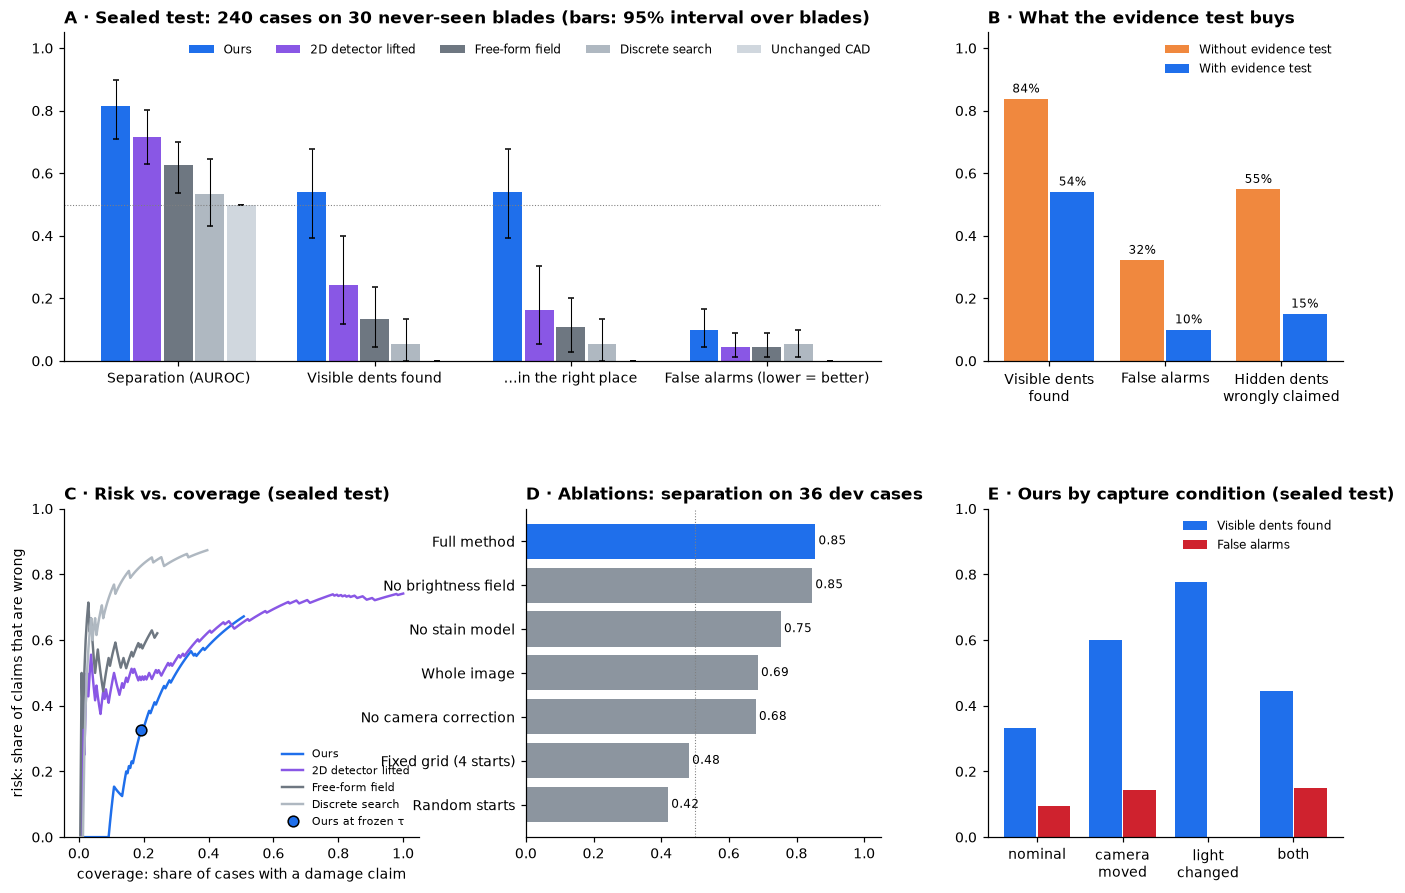
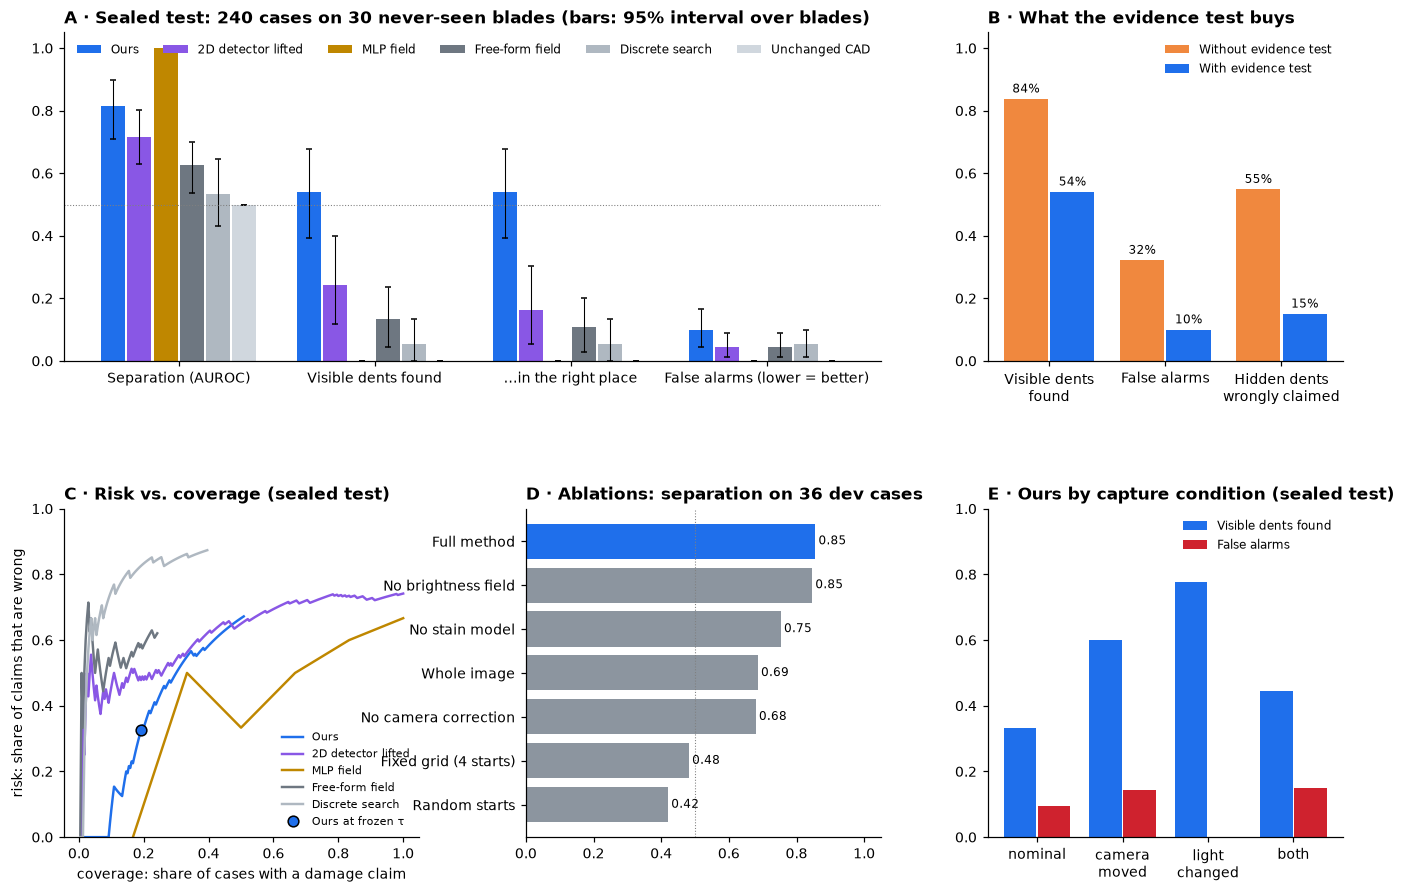
Auto-update results (interim)

diff --git a/results.html b/results.html
@@ -6,7 +6,7 @@
 <link rel="stylesheet" href="styles.css">
 <style>main.res{max-width:1100px;margin:0 auto;padding:32px 16px 64px;display:grid;gap:18px} main.res small{color:var(--muted)}</style>
 </head><body><main class="res">
-<span class="eyebrow">BladeDelta results · 09 Oct 2026, 10:35 UTC</span>
+<span class="eyebrow">BladeDelta results · 09 Oct 2026, 12:09 UTC</span>
 <h1>Sealed-test results <span class="chip partial">updating automatically</span></h1>
 <p>This page is rebuilt automatically from the experiment outputs. The test set is 240 cases on 30 blade shapes never used
 for development; the method and its threshold were locked before any test image existed. Brackets are 95% intervals,
@@ -82,7 +82,7 @@ v1.1 is best on separation, location, false alarms and hidden-dent abstention. T
 photo's outline and the mesh outline disagree (red: only in the photo; blue: only in the mesh). Left: your blade 3. Right: a Rotor37 blade.
 The disagreements are small, but on your blades they are enough to pull the camera check off by about 0.3&deg;.</figcaption></figure>
 <h2>All methods on the sealed test</h2>
-<div class="tablewrap"><table><thead><tr><th>Method</th><th>Separation (AUROC)</th><th>Visible dents found</th><th>…in the right place</th><th>False alarms</th><th>Hidden dents: abstains</th></tr></thead><tbody><tr><td><b>Ours (evidence-bounded)</b></td><td>0.82 <small>[0.71–0.90]</small></td><td>54% <small>[39–68]</small></td><td>54% <small>[39–68]</small></td><td>10% <small>[4–17]</small></td><td>85% <small>[77–91]</small></td></tr><tr><td><b>Ours without the evidence test</b></td><td>0.82 <small>[0.71–0.90]</small></td><td>84% <small>[68–95]</small></td><td>70% <small>[56–84]</small></td><td>32% <small>[21–43]</small></td><td>45% <small>[36–54]</small></td></tr><tr><td><b>2D detector lifted to 3D</b></td><td>0.71 <small>[0.63–0.80]</small></td><td>24% <small>[12–40]</small></td><td>16% <small>[5–30]</small></td><td>4% <small>[1–9]</small></td><td>96% <small>[93–99]</small></td></tr><tr><td><b>Free-form field (per vertex)</b></td><td>0.63 <small>[0.54–0.70]</small></td><td>14% <small>[4–24]</small></td><td>11% <small>[3–20]</small></td><td>4% <small>[1–9]</small></td><td>99% <small>[97–100]</small></td></tr><tr><td><b>Discrete search (earlier method)</b></td><td>0.53 <small>[0.43–0.65]</small></td><td>5% <small>[0–13]</small></td><td>5% <small>[0–13]</small></td><td>6% <small>[1–10]</small></td><td>98% <small>[95–100]</small></td></tr><tr><td><b>Unchanged CAD (never reports)</b></td><td>0.50 <small>[0.50–0.50]</small></td><td>0% <small>[0–0]</small></td><td>0% <small>[0–0]</small></td><td>0% <small>[0–0]</small></td><td>100% <small>[100–100]</small></td></tr></tbody></table></div>
+<div class="tablewrap"><table><thead><tr><th>Method</th><th>Separation (AUROC)</th><th>Visible dents found</th><th>…in the right place</th><th>False alarms</th><th>Hidden dents: abstains</th></tr></thead><tbody><tr><td><b>Ours (evidence-bounded)</b></td><td>0.82 <small>[0.71–0.90]</small></td><td>54% <small>[39–68]</small></td><td>54% <small>[39–68]</small></td><td>10% <small>[4–17]</small></td><td>85% <small>[77–91]</small></td></tr><tr><td><b>Ours without the evidence test</b></td><td>0.82 <small>[0.71–0.90]</small></td><td>84% <small>[68–95]</small></td><td>70% <small>[56–84]</small></td><td>32% <small>[21–43]</small></td><td>45% <small>[36–54]</small></td></tr><tr><td><b>2D detector lifted to 3D</b></td><td>0.71 <small>[0.63–0.80]</small></td><td>24% <small>[12–40]</small></td><td>16% <small>[5–30]</small></td><td>4% <small>[1–9]</small></td><td>96% <small>[93–99]</small></td></tr><tr><td><b>MLP deformation field (CADSplat-style)</b></td><td>1.00 <small>[1.00–1.00]</small></td><td>0% <small>[0–0]</small></td><td>0% <small>[0–0]</small></td><td>0% <small>[0–0]</small></td><td>100% <small>[100–100]</small></td></tr><tr><td><b>Free-form field (per vertex)</b></td><td>0.63 <small>[0.54–0.70]</small></td><td>14% <small>[4–24]</small></td><td>11% <small>[3–20]</small></td><td>4% <small>[1–9]</small></td><td>99% <small>[97–100]</small></td></tr><tr><td><b>Discrete search (earlier method)</b></td><td>0.53 <small>[0.43–0.65]</small></td><td>5% <small>[0–13]</small></td><td>5% <small>[0–13]</small></td><td>6% <small>[1–10]</small></td><td>98% <small>[95–100]</small></td></tr><tr><td><b>Unchanged CAD (never reports)</b></td><td>0.50 <small>[0.50–0.50]</small></td><td>0% <small>[0–0]</small></td><td>0% <small>[0–0]</small></td><td>0% <small>[0–0]</small></td><td>100% <small>[100–100]</small></td></tr></tbody></table></div>
 <h3>Ours, by capture condition</h3><div class="tablewrap"><table><thead><tr><th>Capture</th><th>Visible dents found</th><th>False alarms</th></tr></thead><tbody><tr><td>nominal</td><td>33%</td><td>10%</td></tr><tr><td>camera</td><td>60%</td><td>14%</td></tr><tr><td>light</td><td>78%</td><td>0%</td></tr><tr><td>both</td><td>44%</td><td>15%</td></tr></tbody></table></div>
 <figure><img src="img/results/cad6_blades.png" alt="Six CAD blades"></figure>
 <h2>New blades: your six real blade CAD models (456 of 456 cases so far)</h2>

diff --git a/index.html b/index.html
@@ -58,7 +58,7 @@
       <span class="eyebrow">Latest updates · 7 October 2026, afternoon</span>
       <h2 id="h-latest">Latest results, in pictures</h2>
       <p><b>Final sealed-test numbers and every method side by side: <a href="results.html">live results page</a></b> (rebuilt automatically as experiments finish).</p>
-      <!--AUTO-STATUS-START--><div class="note"><strong>Automatic status · 09 Oct 2026, 10:09 UTC</strong><p>7 of 13 phases done. Sealed test: separation 0.82, 54% of visible dents found, 10% false alarms. <a href="results.html">Full results and charts →</a></p></div><!--AUTO-STATUS-END-->
+      <!--AUTO-STATUS-START--><div class="note"><strong>Automatic status · 09 Oct 2026, 12:09 UTC</strong><p>7 of 13 phases done. Sealed test: separation 0.82, 54% of visible dents found, 10% false alarms. <a href="results.html">Full results and charts →</a></p></div><!--AUTO-STATUS-END-->
       <div class="stats">
         <div class="stat"><span class="big">213 / 240</span><span class="lbl">sealed-test cases done (27 never-seen blades); numbers below are preliminary</span></div>
         <div class="stat"><span class="big">0.81</span><span class="lbl">separation of visible dents from healthy/stained blades (was 0.89 at 80 cases)</span></div>
